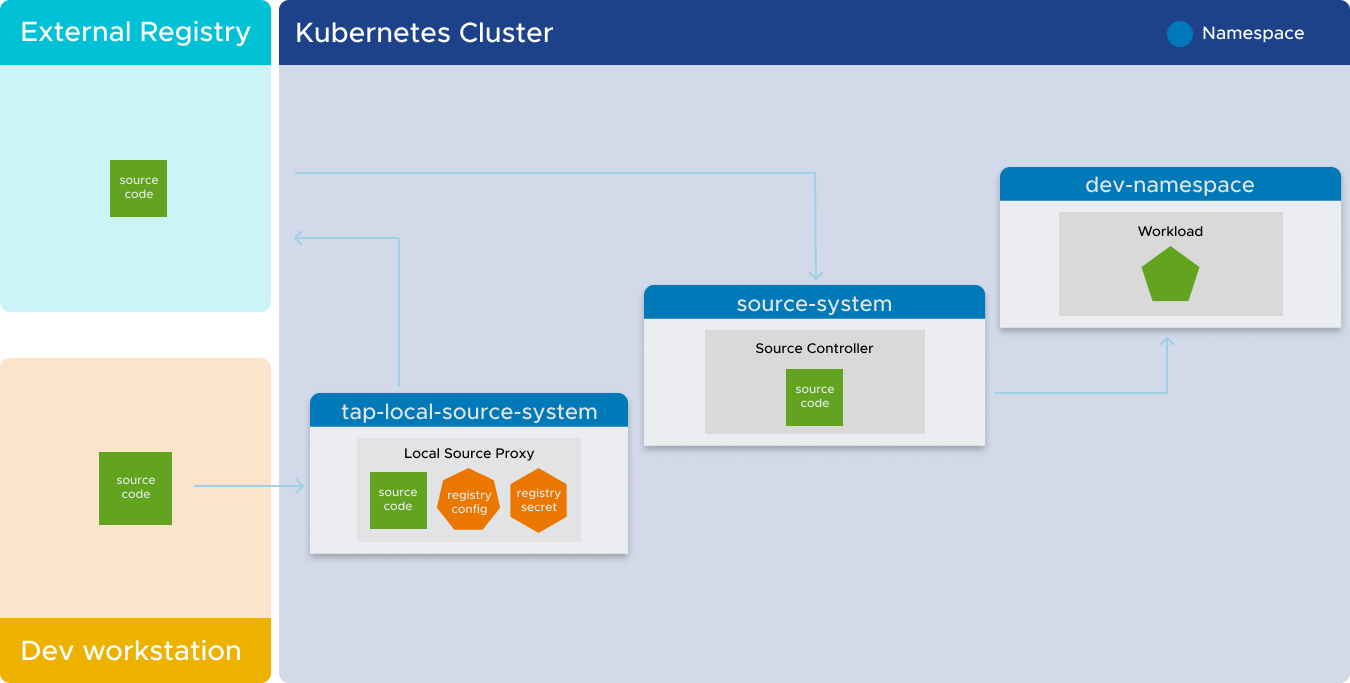
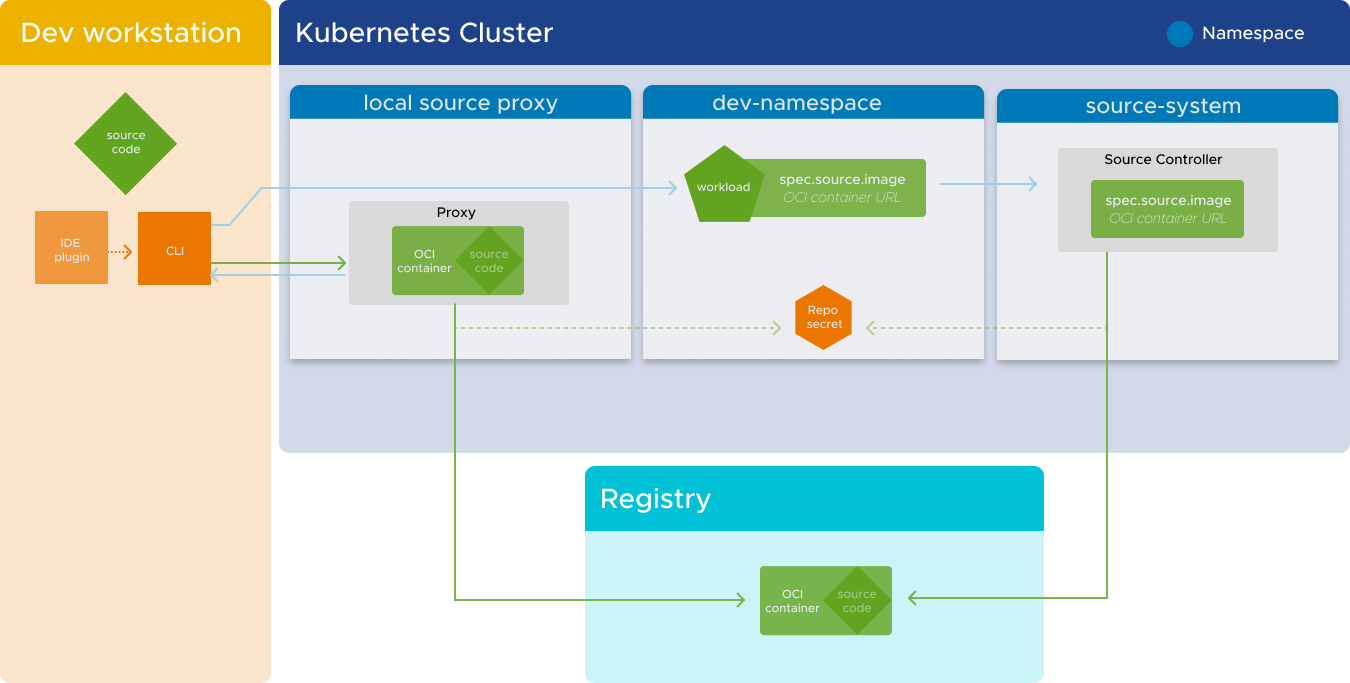
local source proxy: updated design doc

diff --git a/local-source-proxy/design.hbs.md b/local-source-proxy/design.hbs.md
@@ -11,7 +11,13 @@ By functioning as a proxy registry server, Local Source Proxy simplifies the pro
 interacting with external registry servers. Local Source Proxy provides a centralized and transparent
 approach for image push requests, handling authentication and authorization seamlessly.
 
-![Diagram showing the relationship between an external registry, a developer workstation, and a Kubernetes cluster.](images/lsp-design.png)
+LSP Active
+:
+    ![Diagram showing the relationship between an external registry, a developer workstation, and a Kubernetes cluster.](images/lsp-design.png)
+
+LSP Inactive
+:
+    ![Diagram showing the relationship between an external registry, a developer workstation, and a Kubernetes cluster.](images/without-lsp-design.png)
 
 The Apps CLI generates requests that adhere to the OCI distribution standard to push
 artifacts to Local Source Proxy instances. User authentication and authorization are handled by the

diff --git a/local-source-proxy/prereqs.hbs.md b/local-source-proxy/prereqs.hbs.md
@@ -4,6 +4,7 @@ You need the following prerequisites before you can install Local Source Proxy (
 
 - A registry server with a repository capable of accepting and hosting OCI artifacts, such as Google 
   Artifact Registry, Jfrog Artifactory, Harbor, and so on.
+  
 - A secret with sufficient privileges to push and pull artifacts from that repository
 
 The rest of this topic tells you how to obtain these prerequisites.
@@ -78,7 +79,7 @@ Declarative syntax
   repository. If such a role does not exist, you can create one by following the steps outlined in
   the documentation provided here.
 
-- **Optional**:
+- **A secret with pull privileges only**:
 
   This applies if you prefer to have a dedicated credential with a least-privilege policy,
   specifically for downloading artifacts, instead of reusing credentials with higher privileges. 
